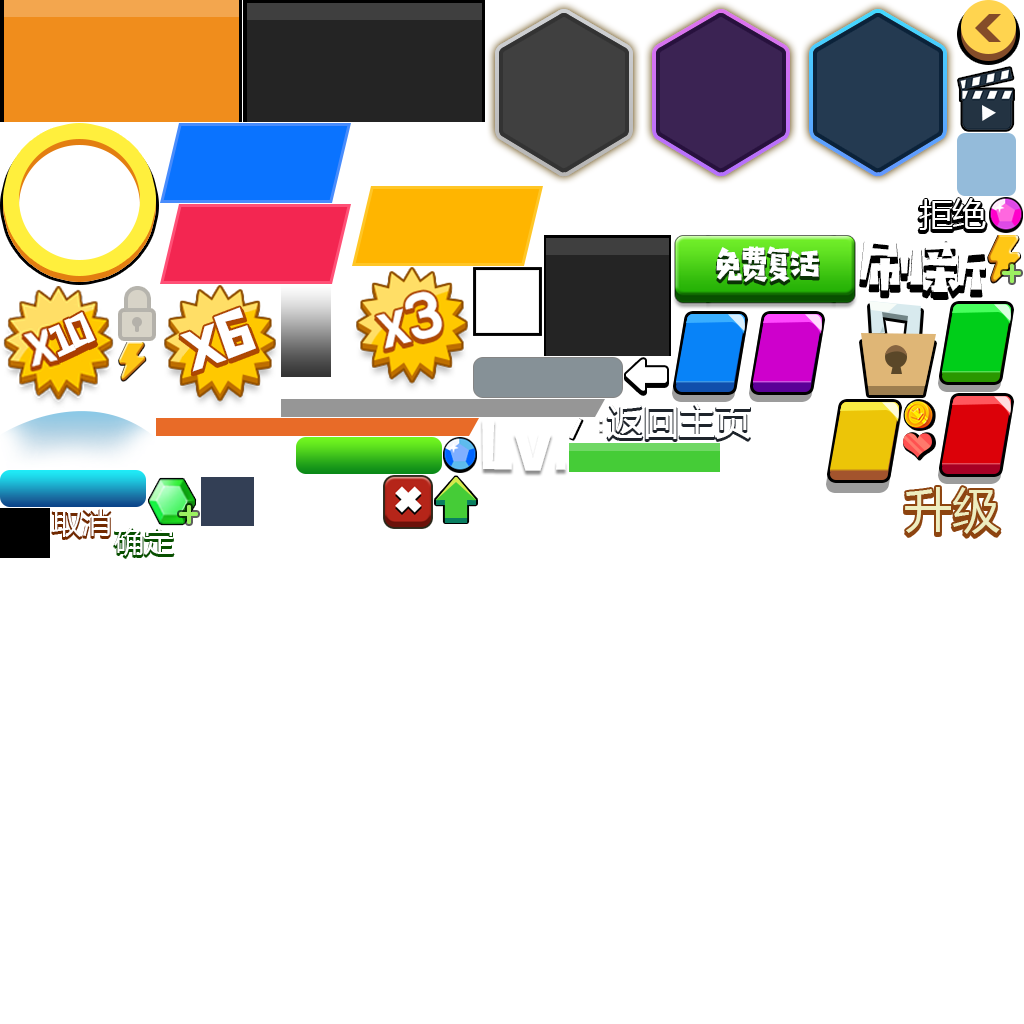
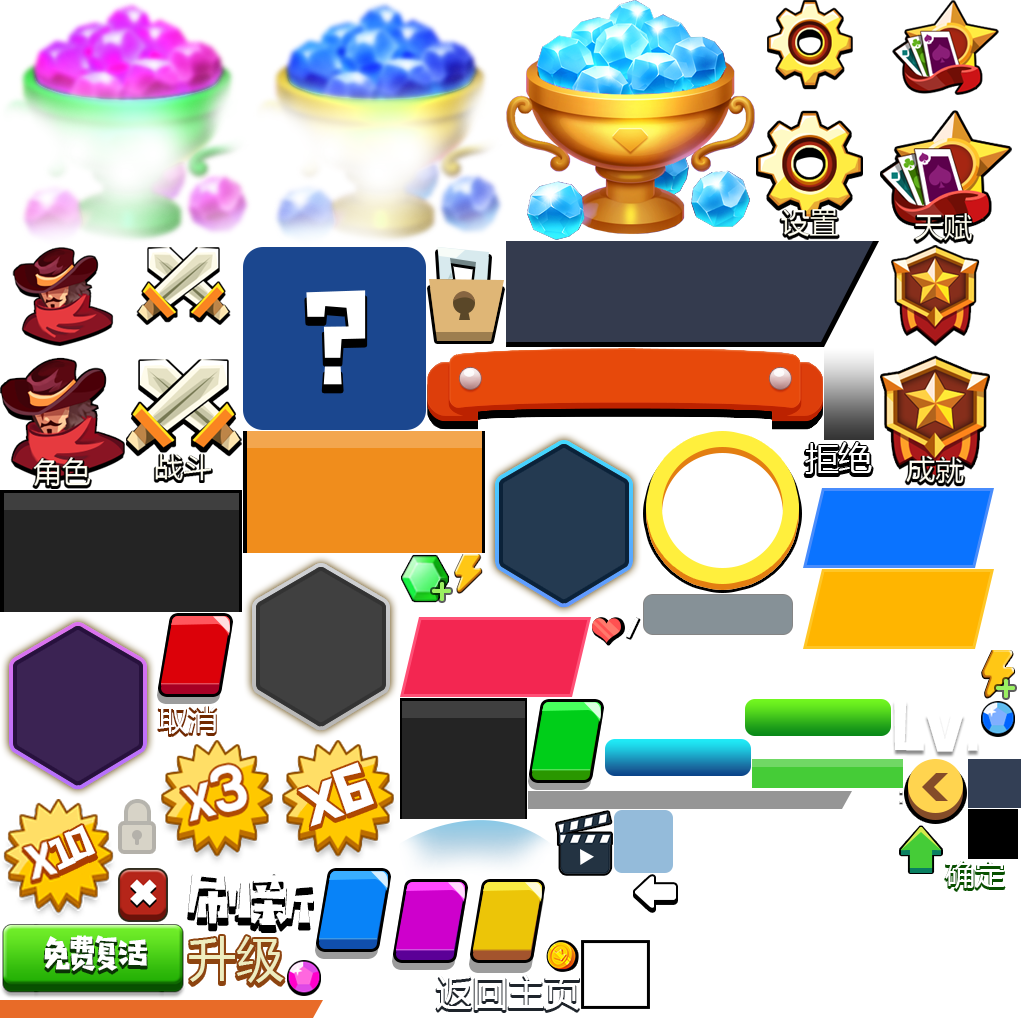
no message

diff --git a/Game3D01/src/ui/layaMaxUI.ts b/Game3D01/src/ui/layaMaxUI.ts
@@ -191,6 +191,42 @@ export module ui.test {
         }
     }
     REG("ui.test.GameOverUI",GameOverUI);
+    export class GetItemCellUI extends View {
+		public light:ui.test.LightUI;
+		public label:Laya.Label;
+		public v1:ui.test.GoldViewUI;
+        public static  uiView:any ={"type":"View","props":{"width":600,"height":600},"compId":2,"child":[{"type":"Light","props":{"y":300,"x":300,"var":"light","blendMode":"lighter","anchorY":0.5,"anchorX":0.5,"runtime":"ui.test.LightUI"},"compId":4},{"type":"Label","props":{"y":431,"x":156,"width":288,"var":"label","text":"X 1000","height":91,"fontSize":60,"color":"#ffffff","align":"center"},"compId":5},{"type":"GoldView","props":{"y":150,"x":155,"var":"v1","runtime":"ui.test.GoldViewUI"},"compId":13}],"loadList":[],"loadList3D":[]};
+        constructor(){ super()}
+        createChildren():void {
+            super.createChildren();
+            this.createView(GetItemCellUI.uiView);
+        }
+    }
+    REG("ui.test.GetItemCellUI",GetItemCellUI);
+    export class GetItemDialogUI extends Dialog {
+		public box:Laya.Box;
+		public rebornBtn:Laya.Button;
+		public deshuliang:Laya.Label;
+        public static  uiView:any ={"type":"Dialog","props":{"width":750,"isModal":true,"height":1200},"compId":2,"child":[{"type":"Box","props":{"y":0,"x":0,"width":750,"var":"box","height":1000},"compId":15},{"type":"Button","props":{"y":1100,"x":375,"width":358,"var":"rebornBtn","stateNum":1,"skin":"main/btn_lv.png","sizeGrid":"0,27,0,28","scaleY":1,"scaleX":1,"name":"close","height":100,"anchorY":0.5,"anchorX":0.5},"compId":16,"child":[{"type":"Label","props":{"y":30,"x":68,"width":222,"var":"deshuliang","text":"确定","height":40,"fontSize":28,"color":"#ffffff","align":"center"},"compId":17}]}],"loadList":["main/btn_lv.png"],"loadList3D":[]};
+        constructor(){ super()}
+        createChildren():void {
+            super.createChildren();
+            this.createView(GetItemDialogUI.uiView);
+        }
+    }
+    REG("ui.test.GetItemDialogUI",GetItemDialogUI);
+    export class GoldViewUI extends View {
+		public red:Laya.Box;
+		public blue:Laya.Box;
+		public gold:Laya.Image;
+        public static  uiView:any ={"type":"View","props":{"width":300,"height":300},"compId":2,"child":[{"type":"Box","props":{"y":27,"x":24,"visible":false,"var":"red"},"compId":3,"child":[{"type":"Sprite","props":{"texture":"main/jiangbei.png"},"compId":6},{"type":"Image","props":{"y":0,"x":0,"skin":"main/jiangbeiguang.png","blendMode":"lighter","alpha":0.5},"compId":7}]},{"type":"Box","props":{"y":27,"x":23,"visible":false,"var":"blue"},"compId":4,"child":[{"type":"Sprite","props":{"texture":"main/jiangbeilan.png"},"compId":8},{"type":"Sprite","props":{"texture":"main/jiangbeiguanglan.png","blendMode":"lighter","alpha":0.5},"compId":9}]},{"type":"Image","props":{"y":19,"x":24,"visible":false,"var":"gold","skin":"main/jiangbi.png"},"compId":5}],"loadList":["main/jiangbei.png","main/jiangbeiguang.png","main/jiangbeilan.png","main/jiangbeiguanglan.png","main/jiangbi.png"],"loadList3D":[]};
+        constructor(){ super()}
+        createChildren():void {
+            super.createChildren();
+            this.createView(GoldViewUI.uiView);
+        }
+    }
+    REG("ui.test.GoldViewUI",GoldViewUI);
     export class HengjuUI extends View {
 		public huoxing:Laya.Clip;
 		public box:Laya.Box;
@@ -280,12 +316,13 @@ export module ui.test {
 		public gongshu:Laya.FontClip;
 		public jinengtubiao:Laya.Image;
 		public jinengming:Laya.Label;
+		public skillLabel:Laya.Label;
 		public zuo:Laya.Button;
 		public you:Laya.Button;
 		public xuan:Laya.Image;
 		public shengmingshu:Laya.FontClip;
 		public gongjishu:Laya.FontClip;
-        public static  uiView:any ={"type":"View","props":{"width":750,"height":1334},"compId":1,"child":[{"type":"viewbg","props":{"runtime":"ui.game.viewbgUI"},"compId":51},{"type":"Box","props":{"width":750,"height":1334,"centerY":0},"compId":49,"child":[{"type":"Image","props":{"y":911,"x":0,"width":503,"skin":"juese/juese_zi.png","sizeGrid":"0,16,0,15","height":305},"compId":31},{"type":"Image","props":{"y":911,"x":503,"width":247,"skin":"juese/juese_lan.png","sizeGrid":"0,16,0,15","height":305},"compId":30},{"type":"Image","props":{"y":791,"x":43,"var":"shengming","skin":"juese/juese_di.png"},"compId":21,"child":[{"type":"Image","props":{"y":92,"x":41,"skin":"juese/juese_jiaxue.png"},"compId":9},{"type":"Image","props":{"y":63,"x":123,"skin":"main/juese_sheng.png"},"compId":10},{"type":"Label","props":{"y":5,"x":54,"width":74,"text":"生命","height":39,"fontSize":36,"color":"#ffffff","align":"left"},"compId":22},{"type":"Button","props":{"y":341,"x":91,"width":182,"var":"shengmingniu","stateNum":1,"skin":"main/btn_lv.png","sizeGrid":"41,31,38,33","height":91,"anchorY":0.5,"anchorX":0.5},"compId":32,"child":[{"type":"Image","props":{"y":23,"x":62,"skin":"juese/shengzizi.png"},"compId":60}]},{"type":"Image","props":{"y":203,"x":29.5,"skin":"juese/shengming.png"},"compId":68},{"type":"FontClip","props":{"y":208,"x":69,"width":461,"var":"shengmingjia","value":"+1","skin":"main/clipshuzi.png","sheet":"123456 7890-+ /:cdef","scaleY":0.25,"scaleX":0.25,"height":115,"align":"center"},"compId":69},{"type":"Box","props":{"y":307.25,"x":0,"var":"box1"},"compId":72,"child":[{"type":"Image","props":{"y":4.5,"x":16,"skin":"juese/juese_tiaoxia.png"},"compId":12},{"type":"Image","props":{"y":4.5,"x":16,"width":151,"var":"tiao","skin":"main/juese_tiaoshang.png","height":31},"compId":13},{"type":"Button","props":{"y":20.5,"x":184,"var":"jia","stateNum":1,"skin":"juese/btn_jia.png","anchorY":0.5,"anchorX":0.5},"compId":59},{"type":"Image","props":{"y":2.5,"skin":"main/baoshi.png"},"compId":58},{"type":"FontClip","props":{"y":45,"x":11,"width":917,"var":"xueshu","value":"1299/1234","skin":"main/clipshuzi.png","sheet":"123456 7890-+ /:cdef","scaleY":0.2,"scaleX":0.2,"height":115,"align":"center"},"compId":14}]}]},{"type":"Image","props":{"y":789,"x":280,"var":"gongji","skin":"juese/juese_di.png"},"compId":23,"child":[{"type":"Image","props":{"y":92,"x":41,"skin":"juese/juese_jiagong.png"},"compId":24},{"type":"Image","props":{"y":63,"x":123,"skin":"main/juese_sheng.png"},"compId":25},{"type":"Label","props":{"y":5,"x":54,"width":74,"text":"攻击","height":39,"fontSize":36,"color":"#ffffff","align":"left"},"compId":29},{"type":"Button","props":{"y":342,"x":87,"width":182,"var":"gongjiniu","stateNum":1,"skin":"main/btn_lv.png","sizeGrid":"41,31,38,33","height":91,"anchorY":0.5,"anchorX":0.5},"compId":66,"child":[{"type":"Image","props":{"y":23,"x":62,"skin":"juese/shengzizi.png"},"compId":67}]},{"type":"Image","props":{"y":204,"x":27,"skin":"juese/gongji.png"},"compId":70},{"type":"FontClip","props":{"y":210,"x":69,"width":461,"var":"gongjijia","value":"+1","skin":"main/clipshuzi.png","sheet":"123456 7890-+ /:cdef","scaleY":0.25,"scaleX":0.25,"height":115,"align":"center"},"compId":71},{"type":"Box","props":{"y":307.5,"x":-7,"var":"box2"},"compId":73,"child":[{"type":"Image","props":{"y":4.5,"x":16,"skin":"juese/juese_tiaoxia.png"},"compId":61},{"type":"Image","props":{"y":4.5,"x":16,"var":"tiao2","skin":"main/juese_tiaoshang.png"},"compId":62},{"type":"Button","props":{"y":20.5,"x":184,"var":"jia2","stateNum":1,"skin":"juese/btn_jia.png","anchorY":0.5,"anchorX":0.5},"compId":63},{"type":"Image","props":{"y":2.5,"skin":"main/baoshi.png"},"compId":64},{"type":"FontClip","props":{"y":45,"x":11,"width":910,"var":"gongshu","value":"1299/1234","skin":"main/clipshuzi.png","sheet":"123456 7890-+ /:cdef","scaleY":0.2,"scaleX":0.2,"height":115,"align":"center"},"compId":65}]}]},{"type":"Image","props":{"y":797,"x":543,"width":175,"skin":"juese/juese_hei.png","sizeGrid":"23,70,19,34","height":367,"alpha":0.5},"compId":38},{"type":"Image","props":{"y":1000,"x":544,"skin":"juese/juesekuai.png"},"compId":40},{"type":"Image","props":{"y":842,"x":542,"width":177,"var":"jinengtubiao","skin":"main/kawen.png","height":177},"compId":39},{"type":"Label","props":{"y":803,"x":562,"width":133,"var":"jinengming","text":"技能名字","height":33,"fontSize":30,"color":"#f3e9e9","align":"center"},"compId":41},{"type":"Label","props":{"y":1045,"x":551,"wordWrap":true,"width":157,"text":"技能说明技能说明技能说明技能说明技能说明","height":114,"fontSize":24,"color":"#f3e9e9","align":"center"},"compId":42},{"type":"Button","props":{"y":455,"x":119,"var":"zuo","stateNum":1,"skin":"main/btn_zuo.png","anchorY":0.5,"anchorX":0.5},"compId":43},{"type":"Button","props":{"y":456,"x":641,"width":63,"var":"you","stateNum":1,"skin":"main/btn_zuo.png","scaleX":-1,"anchorY":0.5,"anchorX":0.5},"compId":44},{"type":"juese_1","props":{"y":117,"x":251,"runtime":"ui.test.juese_1UI"},"compId":50},{"type":"Image","props":{"y":571,"x":246,"var":"xuan","skin":"juese/juese_yixuanze.png"},"compId":45},{"type":"Image","props":{"y":687,"x":72,"width":592,"skin":"juese/juese_hei.png","sizeGrid":"15,26,22,22","height":69,"alpha":0.5},"compId":53},{"type":"Sprite","props":{"y":684,"x":99,"texture":"juese/juese_jiaxue.png"},"compId":54},{"type":"Sprite","props":{"y":686,"x":400,"texture":"juese/juese_jiagong.png"},"compId":55},{"type":"FontClip","props":{"y":707,"x":205,"width":461,"var":"shengmingshu","value":"12990","skin":"main/clipshuzi.png","sheet":"123456 7890-+ /:cdef","scaleY":0.3,"scaleX":0.3,"height":115,"align":"left"},"compId":56},{"type":"FontClip","props":{"y":702.5,"x":496,"width":461,"var":"gongjishu","value":"12990","skin":"main/clipshuzi.png","sheet":"123456 7890-+ /:cdef","scaleY":0.3,"scaleX":0.3,"height":115,"align":"left"},"compId":57}]}],"loadList":["juese/juese_zi.png","juese/juese_lan.png","juese/juese_di.png","juese/juese_jiaxue.png","main/juese_sheng.png","main/btn_lv.png","juese/shengzizi.png","juese/shengming.png","main/clipshuzi.png","juese/juese_tiaoxia.png","main/juese_tiaoshang.png","juese/btn_jia.png","main/baoshi.png","juese/juese_jiagong.png","juese/gongji.png","juese/juese_hei.png","juese/juesekuai.png","main/kawen.png","main/btn_zuo.png","test/juese_1.ui","juese/juese_yixuanze.png"],"loadList3D":[]};
+        public static  uiView:any ={"type":"View","props":{"width":750,"height":1334},"compId":1,"child":[{"type":"viewbg","props":{"runtime":"ui.game.viewbgUI"},"compId":51},{"type":"Box","props":{"width":750,"height":1334,"centerY":0},"compId":49,"child":[{"type":"Image","props":{"y":911,"x":0,"width":503,"skin":"juese/juese_zi.png","sizeGrid":"0,16,0,15","height":305},"compId":31},{"type":"Image","props":{"y":911,"x":503,"width":247,"skin":"juese/juese_lan.png","sizeGrid":"0,16,0,15","height":305},"compId":30},{"type":"Image","props":{"y":791,"x":43,"var":"shengming","skin":"juese/juese_di.png"},"compId":21,"child":[{"type":"Image","props":{"y":92,"x":41,"skin":"juese/juese_jiaxue.png"},"compId":9},{"type":"Image","props":{"y":63,"x":123,"skin":"main/juese_sheng.png"},"compId":10},{"type":"Label","props":{"y":5,"x":54,"width":74,"text":"生命","height":39,"fontSize":36,"color":"#ffffff","align":"left"},"compId":22},{"type":"Button","props":{"y":341,"x":91,"width":182,"var":"shengmingniu","stateNum":1,"skin":"main/btn_lv.png","sizeGrid":"41,31,38,33","height":91,"anchorY":0.5,"anchorX":0.5},"compId":32,"child":[{"type":"Image","props":{"y":23,"x":62,"skin":"juese/shengzizi.png"},"compId":60}]},{"type":"Image","props":{"y":203,"x":29.5,"skin":"juese/shengming.png"},"compId":68},{"type":"FontClip","props":{"y":208,"x":69,"width":461,"var":"shengmingjia","value":"+1","skin":"main/clipshuzi.png","sheet":"123456 7890-+ /:cdef","scaleY":0.25,"scaleX":0.25,"height":115,"align":"center"},"compId":69},{"type":"Box","props":{"y":307.25,"x":0,"var":"box1"},"compId":72,"child":[{"type":"Image","props":{"y":4.5,"x":16,"skin":"juese/juese_tiaoxia.png"},"compId":12},{"type":"Image","props":{"y":4.5,"x":16,"width":151,"var":"tiao","skin":"main/juese_tiaoshang.png","height":31},"compId":13},{"type":"Button","props":{"y":20.5,"x":184,"var":"jia","stateNum":1,"skin":"juese/btn_jia.png","anchorY":0.5,"anchorX":0.5},"compId":59},{"type":"Image","props":{"y":2.5,"skin":"main/baoshi.png"},"compId":58},{"type":"FontClip","props":{"y":45,"x":11,"width":917,"var":"xueshu","value":"1299/1234","skin":"main/clipshuzi.png","sheet":"123456 7890-+ /:cdef","scaleY":0.2,"scaleX":0.2,"height":115,"align":"center"},"compId":14}]}]},{"type":"Image","props":{"y":789,"x":280,"var":"gongji","skin":"juese/juese_di.png"},"compId":23,"child":[{"type":"Image","props":{"y":92,"x":41,"skin":"juese/juese_jiagong.png"},"compId":24},{"type":"Image","props":{"y":63,"x":123,"skin":"main/juese_sheng.png"},"compId":25},{"type":"Label","props":{"y":5,"x":54,"width":74,"text":"攻击","height":39,"fontSize":36,"color":"#ffffff","align":"left"},"compId":29},{"type":"Button","props":{"y":342,"x":87,"width":182,"var":"gongjiniu","stateNum":1,"skin":"main/btn_lv.png","sizeGrid":"41,31,38,33","height":91,"anchorY":0.5,"anchorX":0.5},"compId":66,"child":[{"type":"Image","props":{"y":23,"x":62,"skin":"juese/shengzizi.png"},"compId":67}]},{"type":"Image","props":{"y":204,"x":27,"skin":"juese/gongji.png"},"compId":70},{"type":"FontClip","props":{"y":210,"x":69,"width":461,"var":"gongjijia","value":"+1","skin":"main/clipshuzi.png","sheet":"123456 7890-+ /:cdef","scaleY":0.25,"scaleX":0.25,"height":115,"align":"center"},"compId":71},{"type":"Box","props":{"y":307.5,"x":-7,"var":"box2"},"compId":73,"child":[{"type":"Image","props":{"y":4.5,"x":16,"skin":"juese/juese_tiaoxia.png"},"compId":61},{"type":"Image","props":{"y":4.5,"x":16,"var":"tiao2","skin":"main/juese_tiaoshang.png"},"compId":62},{"type":"Button","props":{"y":20.5,"x":184,"var":"jia2","stateNum":1,"skin":"juese/btn_jia.png","anchorY":0.5,"anchorX":0.5},"compId":63},{"type":"Image","props":{"y":2.5,"skin":"main/baoshi2.png"},"compId":64},{"type":"FontClip","props":{"y":45,"x":11,"width":910,"var":"gongshu","value":"1299/1234","skin":"main/clipshuzi.png","sheet":"123456 7890-+ /:cdef","scaleY":0.2,"scaleX":0.2,"height":115,"align":"center"},"compId":65}]}]},{"type":"Image","props":{"y":797,"x":543,"width":175,"skin":"juese/juese_hei.png","sizeGrid":"23,70,19,34","height":367,"alpha":0.5},"compId":38},{"type":"Image","props":{"y":1000,"x":544,"skin":"juese/juesekuai.png"},"compId":40},{"type":"Image","props":{"y":842,"x":542,"width":177,"var":"jinengtubiao","skin":"main/kawen.png","height":177},"compId":39},{"type":"Label","props":{"y":803,"x":562,"width":133,"var":"jinengming","text":"技能名字","height":33,"fontSize":30,"color":"#f3e9e9","align":"center"},"compId":41},{"type":"Label","props":{"y":1045,"x":551,"wordWrap":true,"width":157,"var":"skillLabel","text":"技能说明技能说明技能说明技能说明技能说明","height":114,"fontSize":24,"color":"#f3e9e9","align":"center"},"compId":42},{"type":"Button","props":{"y":455,"x":119,"var":"zuo","stateNum":1,"skin":"main/btn_zuo.png","anchorY":0.5,"anchorX":0.5},"compId":43},{"type":"Button","props":{"y":456,"x":641,"width":63,"var":"you","stateNum":1,"skin":"main/btn_zuo.png","scaleX":-1,"anchorY":0.5,"anchorX":0.5},"compId":44},{"type":"juese_1","props":{"y":117,"x":251,"runtime":"ui.test.juese_1UI"},"compId":50},{"type":"Image","props":{"y":571,"x":246,"var":"xuan","skin":"juese/juese_yixuanze.png"},"compId":45},{"type":"Image","props":{"y":687,"x":72,"width":592,"skin":"juese/juese_hei.png","sizeGrid":"15,26,22,22","height":69,"alpha":0.5},"compId":53},{"type":"Sprite","props":{"y":684,"x":99,"texture":"juese/juese_jiaxue.png"},"compId":54},{"type":"Sprite","props":{"y":686,"x":400,"texture":"juese/juese_jiagong.png"},"compId":55},{"type":"FontClip","props":{"y":707,"x":205,"width":461,"var":"shengmingshu","value":"12990","skin":"main/clipshuzi.png","sheet":"123456 7890-+ /:cdef","scaleY":0.3,"scaleX":0.3,"height":115,"align":"left"},"compId":56},{"type":"FontClip","props":{"y":702.5,"x":496,"width":461,"var":"gongjishu","value":"12990","skin":"main/clipshuzi.png","sheet":"123456 7890-+ /:cdef","scaleY":0.3,"scaleX":0.3,"height":115,"align":"left"},"compId":57}]}],"loadList":["juese/juese_zi.png","juese/juese_lan.png","juese/juese_di.png","juese/juese_jiaxue.png","main/juese_sheng.png","main/btn_lv.png","juese/shengzizi.png","juese/shengming.png","main/clipshuzi.png","juese/juese_tiaoxia.png","main/juese_tiaoshang.png","juese/btn_jia.png","main/baoshi.png","juese/juese_jiagong.png","juese/gongji.png","main/baoshi2.png","juese/juese_hei.png","juese/juesekuai.png","main/kawen.png","main/btn_zuo.png","test/juese_1.ui","juese/juese_yixuanze.png"],"loadList3D":[]};
         constructor(){ super()}
         createChildren():void {
             super.createChildren();
@@ -303,6 +340,29 @@ export module ui.test {
         }
     }
     REG("ui.test.juese_1UI",juese_1UI);
+    export class juese_tishiUI extends Dialog {
+		public light:ui.test.LightUI;
+		public rebornBtn:Laya.Button;
+		public deshuliang:Laya.Label;
+		public closeBtn:Laya.Button;
+		public v1:ui.test.GoldViewUI;
+        public static  uiView:any ={"type":"Dialog","props":{"width":750,"isModal":true,"height":1200},"compId":2,"child":[{"type":"Box","props":{"width":750,"height":506,"centerY":-150,"centerX":0},"compId":4,"child":[{"type":"Sprite","props":{"y":59,"x":75,"width":600,"texture":"main/fuhuodi2.jpg","height":400},"compId":5},{"type":"Light","props":{"y":259,"x":375,"var":"light","anchorY":0.5,"anchorX":0.5,"runtime":"ui.test.LightUI"},"compId":20},{"type":"Button","props":{"y":460,"x":374,"width":358,"var":"rebornBtn","stateNum":1,"skin":"main/btn_zi.png","sizeGrid":"0,27,0,28","scaleY":1,"scaleX":1,"height":100,"anchorY":0.5,"anchorX":0.5},"compId":7,"child":[{"type":"Sprite","props":{"y":7,"x":46,"texture":"main/action.png"},"compId":14},{"type":"Label","props":{"y":29,"x":98,"width":222,"var":"deshuliang","text":"随机获得6~10个","height":40,"fontSize":28,"color":"#ffffff","align":"center"},"compId":13},{"type":"Image","props":{"y":6,"x":349,"skin":"main/sanbei.png","anchorY":0.5,"anchorX":0.5},"compId":16}]},{"type":"Button","props":{"y":68,"x":614,"var":"closeBtn","stateNum":1,"skin":"main/btn_guanbi.png","name":"close"},"compId":9},{"type":"Label","props":{"y":339,"x":290.5,"width":167,"text":"水晶不足","height":40,"fontSize":36,"color":"#000000","align":"center"},"compId":10},{"type":"Image","props":{"y":70,"x":309,"skin":"main/biaotitishi.png"},"compId":12},{"type":"GoldView","props":{"y":159,"x":282,"var":"v1","scaleY":0.6,"scaleX":0.6,"runtime":"ui.test.GoldViewUI"},"compId":28}]}],"loadList":["main/fuhuodi2.jpg","main/btn_zi.png","main/action.png","main/sanbei.png","main/btn_guanbi.png","main/biaotitishi.png"],"loadList3D":[]};
+        constructor(){ super()}
+        createChildren():void {
+            super.createChildren();
+            this.createView(juese_tishiUI.uiView);
+        }
+    }
+    REG("ui.test.juese_tishiUI",juese_tishiUI);
+    export class LightUI extends View {
+        public static  uiView:any ={"type":"View","props":{"width":742,"height":742},"compId":2,"child":[{"type":"Sprite","props":{"y":0,"x":0,"texture":"main/guangzhuan1.png"},"compId":9},{"type":"Sprite","props":{"y":0,"x":742,"texture":"main/guangzhuan1.png","scaleX":-1},"compId":10},{"type":"Sprite","props":{"y":742,"x":0,"texture":"main/guangzhuan1.png","scaleY":-1},"compId":11},{"type":"Sprite","props":{"y":742,"x":742,"texture":"main/guangzhuan1.png","scaleY":-1,"scaleX":-1},"compId":12}],"loadList":["main/guangzhuan1.png"],"loadList3D":[]};
+        constructor(){ super()}
+        createChildren():void {
+            super.createChildren();
+            this.createView(LightUI.uiView);
+        }
+    }
+    REG("ui.test.LightUI",LightUI);
     export class LoadingUI extends Scene {
 		public clip:Laya.Clip;
 		public txt:Laya.Label;

diff --git a/Game3D01/src/game/data/TalentData.ts b/Game3D01/src/game/data/TalentData.ts
@@ -10,6 +10,9 @@ export default class TalentData implements IData {
     }
 
     setData(data:any):void{
+        if( data.talent == null ){
+            this.initData(data);
+        }
         let arr = data.talent.split(",");
         for( let k of arr ){
             this.talentArr.push( parseInt(k) );
@@ -29,6 +32,5 @@ export default class TalentData implements IData {
 
     public lvUp( id:number ):void{
         let lv = this.talentArr[id-1];
-        
     }
 }

diff --git a/Game3D01/src/GameConfig.ts b/Game3D01/src/GameConfig.ts
@@ -10,7 +10,7 @@ export default class GameConfig{
     static screenMode:string="none";
     static alignV:string="top";
     static alignH:string="left";
-    static startScene:any="test/Reborth.scene";
+    static startScene:any="test/juese_tishi.scene";
     static sceneRoot:string="";
     static debug:boolean=false;
     static stat:boolean=true;
